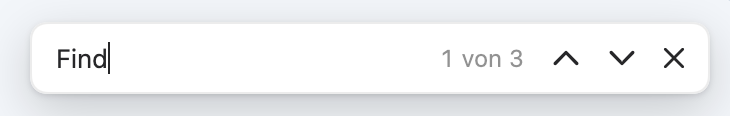
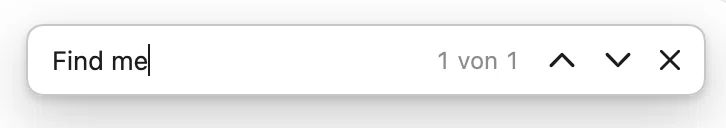
Merge upstream v1.2.1 (jan-voe) into the fork, keep the French match-count fix (v1.2.2_alt)
Upstream's narrow 13ch counter wraps the localized label and hides the
count in French ("Occurrence 2 sur 5" shows only the first word). The
counter keeps its full width again (up to 60% of the bar) and the field
shrinks instead. Bar width stays at 360px.

Claude-Session: https://claude.ai/code/session_01H3MhisXvNw1Z7kmLkfcDhD

diff --git a/chrome.css b/chrome.css
@@ -1,7 +1,8 @@
-/* Arc-Style Find Bar for Zen Browser (Enhanced)
- * Compact floating find bar in the top-right corner of the page:
- *   [ search field        3 of 12 ] ⌃ ⌄ ✕
- * Built against the find bar markup of Zen / Firefox.
+/* Arc-Style Find Bar for Zen Browser
+ * A compact find bar floating in the top-right corner of the page:
+ *   [ search field   3 of 12 ] ⌃ ⌄ ✕
+ * Built against the find bar markup of Zen 1.24.x (Firefox findbar.js).
+ * Tweak it with the variables in :root below.
  */
 
 :root {
@@ -11,15 +12,15 @@
   --arc-findbar-radius: 10px;
   --arc-findbar-bg: light-dark(#ffffff, #2a2a2c);
   --arc-findbar-fg: light-dark(#1c1c1e, #f2f2f7);
-  --arc-findbar-muted: light-dark(rgba(0, 0, 0, 0.48), rgba(255, 255, 255, 0.52));
-  --arc-findbar-border: light-dark(rgba(0, 0, 0, 0.09), rgba(255, 255, 255, 0.12));
+  --arc-findbar-muted: light-dark(rgba(0, 0, 0, 0.45), rgba(255, 255, 255, 0.5));
+  --arc-findbar-border: light-dark(rgba(0, 0, 0, 0.08), rgba(255, 255, 255, 0.1));
   --arc-findbar-hover: light-dark(rgba(0, 0, 0, 0.06), rgba(255, 255, 255, 0.1));
   --arc-findbar-focus-border: light-dark(rgba(0, 0, 0, 0.22), rgba(255, 255, 255, 0.22));
-  --arc-findbar-focus-ring: light-dark(rgba(0, 122, 255, 0.45), rgba(10, 132, 255, 0.55));
+  --arc-findbar-focus-ring: 0 0 0 0 transparent; /* off by default; set to e.g. 0 0 0 2px rgba(0, 122, 255, 0.35) to show a ring */
   --arc-findbar-shadow: 0 8px 24px rgba(0, 0, 0, 0.18), 0 1px 3px rgba(0, 0, 0, 0.12);
   --arc-findbar-shadow-focus: 0 10px 28px rgba(0, 0, 0, 0.22), 0 2px 4px rgba(0, 0, 0, 0.14);
   --arc-findbar-notfound: #e5484d;
-  --arc-findbar-blur: 0px; /* ex. 12px si --arc-findbar-bg est semi-transparent */
+  --arc-findbar-blur: 0px; /* set to e.g. 12px if --arc-findbar-bg is semi-transparent */
 }
 
 /* Positioning context: the tab's content area (also works in split view) */
@@ -29,7 +30,7 @@
 
 /* ---------- The box ---------- */
 .browserContainer > findbar {
-  grid-area: auto !important;
+  grid-area: auto !important; /* leave the bottom grid row so it is positioned against the whole container */
   position: absolute !important;
   top: var(--arc-findbar-offset-top) !important;
   right: var(--arc-findbar-offset-right) !important;
@@ -65,10 +66,10 @@
     visibility 0s !important;
 }
 
-/* Focus: a very thin neutral border (text colour at low opacity) and a slightly stronger shadow */
+/* Focus: a thin neutral border and a slightly stronger shadow; the ring stays optional */
 .browserContainer > findbar:focus-within {
   border-color: var(--arc-findbar-focus-border) !important;
-  box-shadow: var(--arc-findbar-shadow-focus) !important;
+  box-shadow: var(--arc-findbar-shadow-focus), var(--arc-findbar-focus-ring) !important;
 }
 
 /* Hidden: Firefox sets [hidden] but keeps display:flex so it can animate */
@@ -105,7 +106,7 @@ findbar .findbar-container {
   padding: 0 !important;
   overflow: hidden !important;
   opacity: 1 !important;
-  order: 1 !important;
+  order: 1 !important; /* before the close button */
 }
 
 /* Flatten the wrapper so field, match count and arrows become siblings */
@@ -113,7 +114,7 @@ findbar .findbar-container > hbox[anonid="findbar-textbox-wrapper"] {
   display: contents !important;
 }
 
-/* Order: field -> match count -> up -> down (close button follows outside) */
+/* Order: field → match count → up → down (close button follows outside) */
 findbar .findbar-textbox { order: 1 !important; }
 findbar .found-matches { order: 2 !important; }
 findbar .findbar-find-previous { order: 3 !important; }
@@ -126,7 +127,7 @@ findbar .find-status-icon {
   display: none !important;
 }
 
-/* ---------- Search field ---------- */
+/* ---------- Search field (borderless, the box itself is the "field") ---------- */
 findbar .findbar-textbox {
   flex: 1 1 0 !important;
   width: auto !important;
@@ -143,8 +144,7 @@ findbar .findbar-textbox {
   font-size: 13px !important;
 }
 
-findbar .findbar-textbox[status="notfound"],
-findbar .findbar-textbox[status="notfound"] + .found-matches {
+findbar .findbar-textbox[status="notfound"] {
   background: transparent !important;
   color: var(--arc-findbar-notfound) !important;
 }
@@ -154,11 +154,11 @@ findbar .findbar-textbox[flash="true"] {
 }
 
 /* ---------- Match count inside the field ---------- */
+/* Long enough for localized labels such as "Occurrence 12 sur 345" (French),
+ * which the field shrinks to make room for. Ellipsis only on very narrow bars. */
 findbar .found-matches {
   display: block !important;
   flex: 0 0 auto !important;
-  /* Long enough for localized labels ("Occurrence 12 sur 345"), the search
-     field shrinks instead. Ellipsis only as a last resort on very narrow bars. */
   max-width: 60% !important;
   height: 16px !important;
   line-height: 16px !important;
@@ -212,6 +212,12 @@ findbar .close-icon.findbar-closebutton:focus-visible {
 
 findbar .findbar-find-previous[disabled] > .toolbarbutton-icon,
 findbar .findbar-find-next[disabled] > .toolbarbutton-icon {
+  opacity: 0.35 !important;
+}
+
+/* Firefox keeps the arrows enabled when the current term has no matches; grey them out anyway */
+findbar .findbar-textbox[status="notfound"] ~ .findbar-find-previous > .toolbarbutton-icon,
+findbar .findbar-textbox[status="notfound"] ~ .findbar-find-next > .toolbarbutton-icon {
   opacity: 0.35 !important;
 }
 

diff --git a/README.md b/README.md
@@ -1,7 +1,5 @@
-# Arc-Style Find Bar
-> Forked and enhanced from [jan-voe/zen-arc-findbar](https://github.com/jan-voe/zen-arc-findbar) — adds focus states (`:focus-within` / `:focus-visible`), backdrop blur support, improved match-count truncation across locales, and enhanced not-found feedback.
->
-> 
+# 🔍 Arc-Style Find Bar
+
 The find-in-page bar of [Zen Browser](https://zen-browser.app) (the search you open with `Cmd + F` / `Ctrl + F`), restyled like Arc's: small, floating in the top-right corner, with just the search field, match count, arrows and close.
 
 ![Preview](https://raw.githubusercontent.com/Rou-dou-dou/zen-arc-findbar-alt/main/image.png)
@@ -9,14 +7,15 @@ The find-in-page bar of [Zen Browser](https://zen-browser.app) (the search you o
 > [!NOTE]
 > Not available in the Zen mod store, because its repository ([zen-browser/theme-store](https://github.com/zen-browser/theme-store)) has been archived. On macOS, a small script installs it as a regular Zen mod anyway. It takes about two minutes.
 
-## Features
+## ⭐ Features
 
 - Floats top-right instead of sitting at the bottom
 - One clean row: `[ search   2 of 5 ] ⌃ ⌄ ✕`
 - Arc-like highlights: all matches yellow, current match orange
+- Subtle focus state on the bar and its buttons
 - Works in light and dark mode
 
-## Installation
+## 🛠 Installation
 
 **[⬇ Download zen-arc-findbar-alt.zip](https://github.com/Rou-dou-dou/zen-arc-findbar-alt/releases/latest/download/zen-arc-findbar-alt.zip)** and unzip it (Safari does this automatically). You get a folder called `zen-arc-findbar-alt`.
 
@@ -38,7 +37,7 @@ The find bar now shows up in Zen's settings under **Zen Mods**, like any other m
 
 It only touches your Zen profile folder, downloads nothing and needs no admin rights. Step by step:
 
-1. Stops if Zen is still running.
+1. Exits with a message if Zen is still running, so you can quit it with `Cmd + Q` first.
 2. Finds the profile Zen uses (from `profiles.ini`).
 3. Adds an entry for this mod to `zen-themes.json`. Your other mods stay as they are.
 4. Copies `chrome.css` and `README.md` to `chrome/zen-themes/<mod id>/`.
@@ -61,7 +60,7 @@ Prefer not to run a script? These steps work on every system. The only differenc
    - **No:** copy `userChrome.css` from the download into `chrome`.
    - **Yes:** open it in a text editor and add this line at the very top (`@import` only works above all other rules):
      ```css
-     @import url("arc-findbar.css");
+     @import url('arc-findbar.css');
      ```
 5. Open `about:config`, accept the warning, and set `toolkit.legacyUserProfileCustomizations.stylesheets` to `true`.
 6. Optional: set the [highlight colors](#highlight-colors).
@@ -71,19 +70,19 @@ Prefer not to run a script? These steps work on every system. The only differenc
 
 Zen doesn't update this mod by itself. Delete the old `zen-arc-findbar-alt` folder, download the new ZIP and install again the same way (script: quit Zen and run it; manual: replace `arc-findbar.css`). This overwrites changes you made to the stylesheet.
 
-## Customization
+## 💅🏼 Customization
 
 ### Highlight colors
 
 Matches on the page are colored by browser settings, not by the stylesheet. The install script sets them. With the manual install, or to change them, use `about:config`:
 
-| Preference | Value |
-| --- | --- |
-| `findbar.highlightAll` | `true` (highlight all matches) |
-| `ui.textHighlightBackground` | `#FFFF00` (all matches) |
-| `ui.textHighlightForeground` | `#000000` |
-| `ui.textSelectAttentionBackground` | `#FF9632` (current match) |
-| `ui.textSelectAttentionForeground` | `#000000` |
+| Preference                         | Value                          |
+| ---------------------------------- | ------------------------------ |
+| `findbar.highlightAll`             | `true` (highlight all matches) |
+| `ui.textHighlightBackground`       | `#FFFF00` (all matches)        |
+| `ui.textHighlightForeground`       | `#000000`                      |
+| `ui.textSelectAttentionBackground` | `#FF9632` (current match)      |
+| `ui.textSelectAttentionForeground` | `#000000`                      |
 
 If you used the script, these live in `user.js` in your profile folder and are applied on every start, so change them there.
 
@@ -91,21 +90,28 @@ If you used the script, these live in `user.js` in your profile folder and are a
 
 Edit the variables at the top of `chrome.css` (`--arc-findbar-width`, `--arc-findbar-offset-top`, `--arc-findbar-bg`, …) in the downloaded folder and install again.
 
-## Known limitations
+- `--arc-findbar-blur`: set to e.g. `12px` to blur the page behind the bar. Only visible if `--arc-findbar-bg` is semi-transparent.
+- `--arc-findbar-focus-ring`: off by default. Set it to e.g. `0 0 0 2px rgba(0, 122, 255, 0.35)` to show a focus ring.
 
-- Made for Zen 1.24 on macOS. Not tested on Windows, Linux or in split view yet.
-- Zen updates can change the find bar and break the layout.
-- The install script uses Zen's internal mod format, which isn't officially documented. A future Zen version could change it.
-- The match count hides the word after the numbers. In some languages a short word like "match" may still show.
-- Match case, whole words and diacritics are hidden. Their last setting still applies.
-
-## Uninstall
+## 🗑 Uninstall
 
 **Installed with the script:** in Zen's settings under **Zen Mods**, click **Remove** next to Arc-Style Find Bar.
 
 **Installed manually:** open your profile folder (`about:support` → **Profile Folder**), delete `chrome/arc-findbar.css` and the `@import` line in `chrome/userChrome.css` (or the whole file, if you copied it from the download and added nothing), then restart Zen. If you don't use any other custom styles, also reset `toolkit.legacyUserProfileCustomizations.stylesheets` in `about:config`.
 
 **Highlight colors:** if you used the script, also remove this mod's lines from `user.js` in your profile folder. Then reset the preferences from the table above in `about:config`.
+
+## Known limitations
+
+- Tested on Zen 1.24.3b (aarch64), Firefox 160.0.1, macOS (Darwin 27.2.0), including split view. Not tested on Windows or Linux yet.
+- Zen updates can change the find bar and break the layout.
+- The install script uses Zen's internal mod format, which isn't officially documented. A future Zen version could change it.
+- The match count hides the word after the numbers. In some languages a short word like "match" may still show.
+- Match case, whole words and diacritics are hidden. Their last setting still applies.
+
+## Credits
+
+Focus states and the optional backdrop blur were adapted from [Rou-dou-dou's fork](https://github.com/Rou-dou-dou/zen-arc-findbar-alt).
 
 ## License
 
